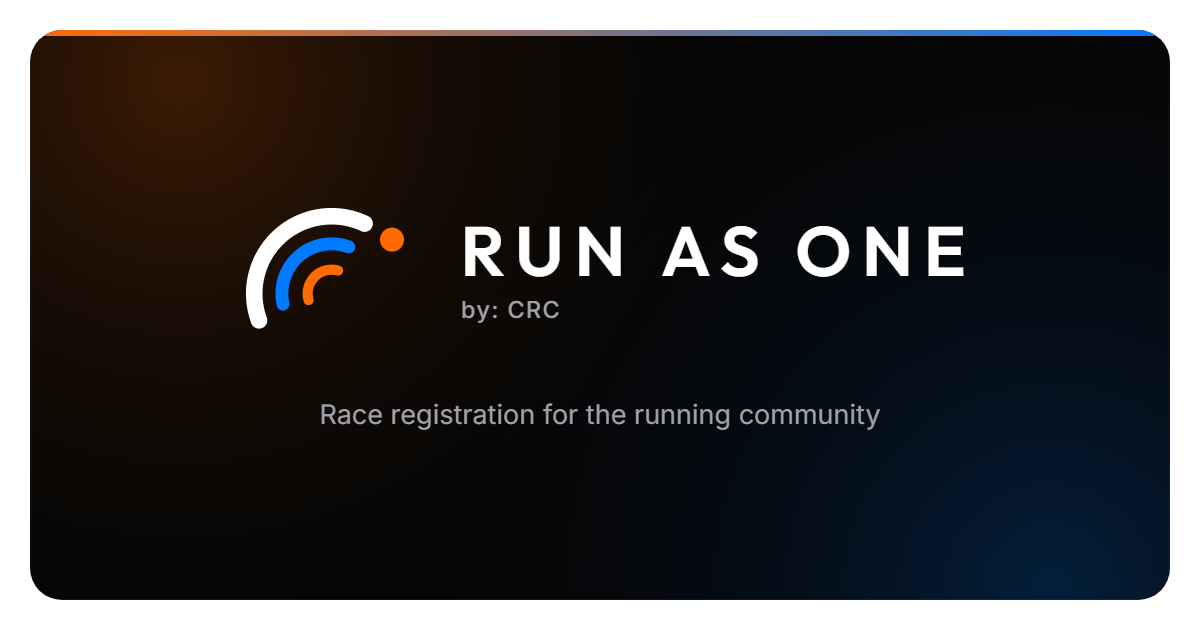
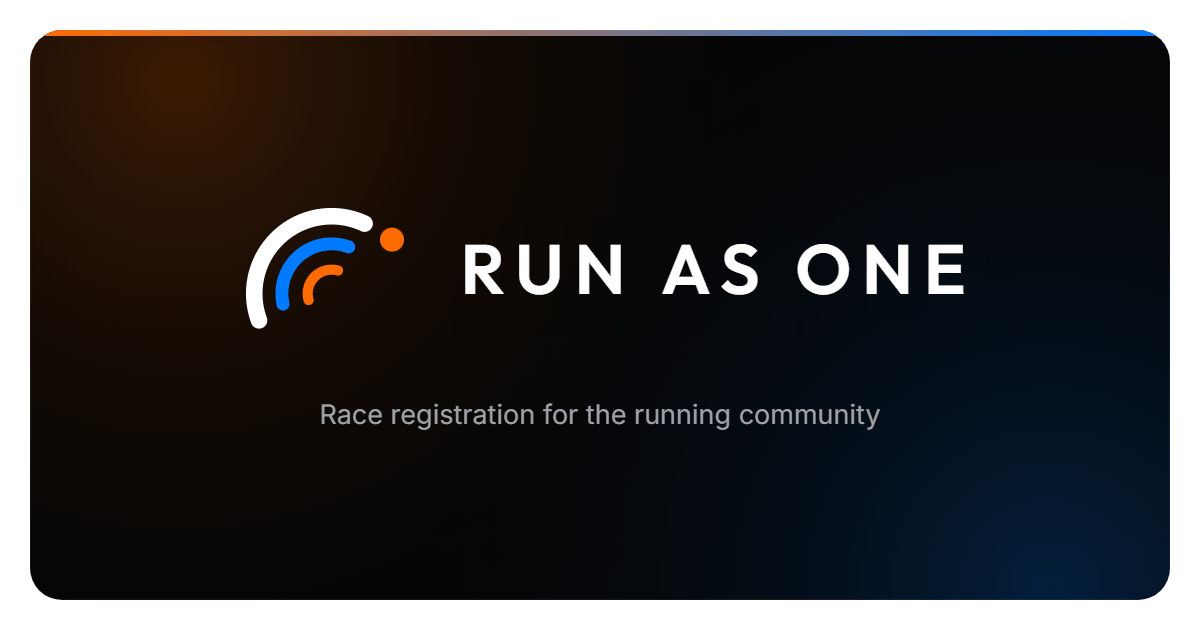
rebrand: Drop the "by: CRC" byline, rename to just Run As One
The parent-brand endorsement line is gone from the logo lockup, the site
name constant, and every surface that quoted it (emails, hero copy,
PROJECT_GUIDE). CSS and assets for the byline are removed along with it,
and the email logo asset gets a version bump so inboxes pick up the change.

Changed region(s): [[0.555, 0.3619, 0.8017, 0.4825], [0.37, 0.3619, 0.5242, 0.5127]]

diff --git a/src/app/globals.css b/src/app/globals.css
@@ -1222,7 +1222,7 @@ html, body { overflow-x: hidden; }
 
 /* ── Brand lockup — components/RunAsOneLogo ────────────────────
    One number sizes the whole thing. `--rao-logo-size` is the height of the
-   drawn mark and everything else — wordmark, tagline, every gap — is `em` off
+   drawn mark and everything else — the wordmark and the gap — is `em` off
    it, so a call site sets one value (responsively, if it wants) and the lockup
    keeps its proportions rather than each surface re-tuning a font size beside a
    pixel height, which is what left the old raster logo a different size in
@@ -1249,16 +1249,6 @@ html, body { overflow-x: hidden; }
   width: auto;
 }
 
-.rao-logo__words {
-  display: flex;
-  flex-direction: column;
-  gap: 0.09em;
-}
-
-.rao-logo--stacked .rao-logo__words {
-  align-items: center;
-}
-
 /* Wide tracking is what makes a short uppercase wordmark read as a mark rather
    than as a word. Tracking adds its space *after* the final letter too, so the
    negative margin pulls that phantom column back off the right edge and the
@@ -1274,29 +1264,6 @@ html, body { overflow-x: hidden; }
   text-transform: uppercase;
   white-space: nowrap;
   color: var(--logo-ink);
-}
-
-/* The endorsement line. Left-aligned by construction — `.rao-logo__words` is a
-   flex column, so it shares the wordmark's own left edge and the two lines have
-   one alignment axis between them instead of two. Right-aligning it would hang
-   it off an edge that the wordmark's letter-spacing keeps moving.
-
-   The size has a floor rather than being pure `em`. 0.17em keeps the byline at
-   about a third of the wordmark — the ratio that reads as an endorsement rather
-   than as a second line of the name — but that is 5.4px in the navbar, so the
-   `max()` holds it at a legible 9.5px in chrome too small to carry the ratio.
-   Small text does not scale down linearly and stay readable, and letting it go
-   proportionally larger there is what optical sizing does anyway. Mixed case,
-   not the wordmark's caps: the contrast is what marks it as the quieter line. */
-.rao-logo__byline {
-  font-family: var(--font-body, 'Inter'), 'Inter', ui-sans-serif, system-ui, sans-serif;
-  font-weight: 500;
-  font-size: max(9.5px, 0.17em);
-  line-height: 1;
-  letter-spacing: 0.06em;
-  margin-right: -0.06em;
-  white-space: nowrap;
-  color: var(--logo-muted);
 }
 
 /* The light half of the logo's palette, sitting here ahead of the theme switch

diff --git a/src/lib/site-contact.ts b/src/lib/site-contact.ts
@@ -1,5 +1,5 @@
 /**
- * Who Run As One by: CRC is, and how a runner reaches it.
+ * Who Run As One is, and how a runner reaches it.
  *
  * The footer, the 404 page and the two legal pages all quote the same address
  * and the same channel list, so they read it from here instead of each
@@ -14,11 +14,10 @@
  * Every surface that names the platform in prose — the footer's copyright, the
  * two legal pages, the Open Graph `siteName`, the sender name and footer on
  * every email — reads it from here, so the name cannot be half-changed. The
- * parent brand is part of it: "Run As One" alone is not the product's name on
- * any surface, the same rule the logo lockup follows by rendering "by: CRC" on
- * every variant that has a wordmark.
+ * logo lockup's wordmark is the one other copy, because it is separately styled
+ * DOM text; change the two together.
  */
-export const SITE_NAME = 'Run As One by: CRC';
+export const SITE_NAME = 'Run As One';
 
 /**
  * Where the site lives on the open internet.
@@ -36,7 +35,7 @@ export const SITE_NAME = 'Run As One by: CRC';
  * on the page still rendered, so the mistake was invisible in a browser, but
  * `metadataBase` made `og:image` absolute against that dead host: Facebook's
  * crawler could not fetch the card, fell back to the largest image on the page,
- * and showed the featured event's poster instead of the Run As One by: CRC card, over a
+ * and showed the featured event's poster instead of the Run As One card, over a
  * `run-as-one.vercel.app` byline nobody could open.
  */
 export const SITE_URL =

diff --git a/src/components/RunAsOneLogo.tsx b/src/components/RunAsOneLogo.tsx
@@ -3,7 +3,7 @@ import { SITE_NAME } from '@/lib/site-contact';
 import { MARK_ARCS, MARK_DOT, MARK_VIEWBOX, type MarkInk } from '@/lib/brand-mark';
 
 /**
- * The Run As One by: CRC brand lockup.
+ * The Run As One brand lockup.
  *
  * Two halves that are deliberately made of different material:
  *
@@ -28,7 +28,7 @@ import { MARK_ARCS, MARK_DOT, MARK_VIEWBOX, type MarkInk } from '@/lib/brand-mar
  * surface can be re-tinted by setting `--logo-ink` on its container.
  *
  * **Size is one number.** `--rao-logo-size` is the height of the mark; the
- * wordmark, the tagline and every gap are `em` off it, so the lockup keeps its
+ * wordmark and the gap are `em` off it, so the lockup keeps its
  * proportions at any size. Set it per call site, responsively if needed:
  * `className="[--rao-logo-size:34px] sm:[--rao-logo-size:40px]"`.
  */
@@ -105,12 +105,9 @@ export function RunAsOneLogo({
       aria-hidden={decorative || undefined}
     >
       {mark}
-      <span className="rao-logo__words">
-        {/* Written in mixed case and uppercased in CSS: a screen reader reading
-            the DOM text says the brand rather than spelling out four capitals. */}
-        <span className="rao-logo__word">Run As One</span>
-        <span className="rao-logo__byline">by: CRC</span>
-      </span>
+      {/* Written in mixed case and uppercased in CSS: a screen reader reading
+          the DOM text says the brand rather than spelling out three capitals. */}
+      <span className="rao-logo__word">Run As One</span>
     </span>
   );
 }

diff --git a/src/lib/email.ts b/src/lib/email.ts
@@ -59,11 +59,10 @@ import {
 /**
  * The sender line every email goes out under.
  *
- * The display name is **quoted**, which it has to be now that the brand is
- * "Run As One by: CRC": a colon is one of RFC 5322's specials, and a bare
- * phrase containing one is not a legal display-name — the parser stops at the
- * colon and the rest of the name lands wherever the receiving client decides.
- * Quoting it makes the whole name one atom and the address parses as intended.
+ * The display name is **quoted**. The name comes from `SITE_NAME`, and it once
+ * held a colon — one of RFC 5322's specials, at which a parser stops and drops
+ * the rest of a bare display-name wherever the receiving client decides.
+ * Quoting keeps the whole name one atom whatever the constant holds.
  */
 const FROM_ADDRESS = `"${SITE_NAME}" <${CONTACT_EMAIL}>`;
 const BRAND_ORANGE = '#FF6B00';
@@ -94,7 +93,7 @@ const BRAND_BLUE = '#007AFF';
  * email sent from localhost or a preview deployment still shows whatever
  * production is serving: a new logo reaches inboxes only once it is on `main`.
  */
-const LOGO_VERSION = '2';
+const LOGO_VERSION = '3';
 const LOGO_URL = `${SITE_URL}/email/run-as-one-logo.png?v=${LOGO_VERSION}`;
 
 let client: Resend | null = null;

diff --git a/src/components/HeroSection.tsx b/src/components/HeroSection.tsx
@@ -10,7 +10,7 @@ import HeroArcBackground from '@/components/HeroArcBackground';
  * The front door.
  *
  * This used to be a search box and nothing else — no headline, no sentence
- * saying what Run As One by: CRC is — so a first-time visitor landed on a control with
+ * saying what Run As One is — so a first-time visitor landed on a control with
  * no idea what they were searching. The copy states the product; the events
  * below are still the thing the page is for, so this stays short enough that
  * the first race card is reachable without much scrolling.

diff --git a/src/lib/brand-mark.ts b/src/lib/brand-mark.ts
@@ -1,5 +1,5 @@
 /**
- * The geometry of the Run As One by: CRC mark, in one place.
+ * The geometry of the Run As One mark, in one place.
  *
  * Three surfaces draw these same four shapes and none of them can reach the
  * others' copy: `components/RunAsOneLogo` renders them as JSX with CSS

diff --git a/PROJECT_GUIDE.md b/PROJECT_GUIDE.md
@@ -1,4 +1,4 @@
-# Run As One by: CRC — Project Guide
+# Run As One — Project Guide
 
 **Read this file before touching the codebase.** It is the single briefing on what
 this app is, how it is built, and the rules it holds itself to, so a fresh session
@@ -14,7 +14,7 @@ updated](#keeping-this-file-updated) at the bottom.
 
 ## 1. What the product is
 
-Run As One by: CRC is a **running-event registration and results platform for the
+Run As One is a **running-event registration and results platform for the
 Philippines**. Three groups use it:
 
 | Who | What they do | Where |
@@ -1000,7 +1000,8 @@ These are the user's own standing preferences. Follow them without being asked.
   `.rao-logo` in `globals.css`, geometry in `lib/brand-mark.ts` — the one copy
   of the path data, which the component, the themed favicon and the icon
   raster scripts all draw from; `app/icon.svg` is the sole exception, a static
-  file that can import nothing, so change it in the same edit). It replaced `public/run-as-one-logo.png`
+  file that can import nothing, so change it in the same edit). It replaced `public/run-as-one-logo.png` (the old
+  artwork, since deleted)
   everywhere a person sees the app: the public navbar and footer, both
   dashboards' sidebars, and the two auth cards. Two halves made of deliberately
   different material — **the mark is SVG geometry** (three concentric arcs, ink
@@ -1015,39 +1016,31 @@ These are the user's own standing preferences. Follow them without being asked.
   Three variants — `full`, `stacked`, `mark`. **Flat colour, never the
   orange→blue gradient**: this logo has to survive a bib, a shirt and a
   tarpaulin, and a ramp is the first thing a printer loses.
-- **The brand is "Run As One by: CRC", and `SITE_NAME` is the only place it is
-  spelled.** It used to be written "RunAsOne" and the parent brand only rode
-  along on the logo; both halves are now one name, and every surface that names
-  the platform in prose — the root `<title>` and every page title, the Open
-  Graph `siteName`, the two legal pages, the footer copyright, the sender name
-  and footer on every email — builds its string from `SITE_NAME` in
-  `lib/site-contact.ts` rather than typing it. **Never retype the name**: the
-  first version of this rename left half the page titles behind because they
-  were string literals, which is why they are template literals off the
-  constant now. Two consequences worth knowing: the email sender's display name
-  is **quoted** (`"${SITE_NAME}" <…>`), because a colon is one of RFC 5322's
-  specials and a bare phrase containing one is not a legal display-name; and the
-  lockup's own two lines are the *only* copies of the name that are not read
-  from the constant, because they are separately styled DOM text — the wordmark
-  says "Run As One" and the byline "by: CRC", and the two must be edited
-  together with it. The `RunAsOneLogo` component, its file and the `.rao-logo`
-  class keep their old identifiers; they are code names, not text a person sees.
-- **"by: CRC" is part of the lockup, not an option.** Run As One by: CRC is Cresendo
-  Running Community's platform, and a parent brand that appears on some
-  surfaces and not others stops reading as a parent brand — so the endorsement
-  line renders on every variant that has a wordmark, and there is no prop to
-  turn it off. It sits **flush with the left edge of the wordmark** in the
-  horizontal lockup and centred in the stacked one, sharing the wordmark's own
-  alignment axis so the two lines have one edge between them rather than two;
-  right-aligning it would hang it off an edge that letter-spacing keeps moving.
-  Mixed case against the wordmark's caps is what marks it as the quieter line.
-  Its size is `max(9.5px, 0.24em)` rather than pure `em`: small text does not
-  scale down linearly and stay readable, so the floor holds it legible at the
-  32px the navbar uses while it still grows on the surfaces that can carry it.
-  It replaced a "Race registration" tagline that never shipped — one sub-line
-  is all the slot holds, and the parent brand earns it.
+- **The brand is "Run As One", and `SITE_NAME` is the only place it is
+  spelled.** It was once written "RunAsOne", and for a while it carried a
+  parent-brand byline; the owner had that byline removed from every surface —
+  the name, the logo lockup, the favicon's label, the Open Graph card and the
+  email logo. Every surface that names the platform in prose — the root
+  `<title>` and every page title, the Open Graph `siteName`, the two legal
+  pages, the footer copyright, the sender name and footer on every email —
+  builds its string from `SITE_NAME` in `lib/site-contact.ts` rather than
+  typing it. **Never retype the name**: an earlier rename left half the page
+  titles behind because they were string literals, which is why they are
+  template literals off the constant now. The email sender's display name stays
+  **quoted** (`"${SITE_NAME}" <…>`) so a special character in some future name
+  — the old byline's colon was one — cannot break RFC 5322 parsing. The
+  lockup's wordmark is the *only* copy of the name not read from the constant,
+  because it is separately styled DOM text, so edit the two together. The
+  `RunAsOneLogo` component, its file and the `.rao-logo` class keep their old
+  identifiers; they are code names, not text a person sees.
+- **The lockup is the mark and the wordmark, nothing else.** There is no byline
+  or tagline slot: the endorsement line that used to sit under the wordmark was
+  removed along with its `.rao-logo__byline` and `.rao-logo__words` styles, so
+  the wordmark alone is centred on the mark in the horizontal lockup and centred
+  under it in the stacked one. Do not bring a sub-line back unless the owner
+  asks for one.
 - **Sizing the logo is one number.** `--rao-logo-size` is the height of the
-  mark and everything else — wordmark, tagline, every gap — is `em` off it, so
+  mark and everything else — the wordmark and the gap — is `em` off it, so
   a call site sets one value and the proportions hold:
   `className="[--rao-logo-size:32px] sm:[--rao-logo-size:38px]"`. Do not size
   the wordmark or the gaps per surface; that is what left the old raster logo a
@@ -1124,30 +1117,32 @@ These are the user's own standing preferences. Follow them without being asked.
   its own inset dark panel rather than borrowing the platform's background.
   **Regenerating the two with a wordmark means rendering them in a browser**,
   where the real Outfit face is loaded — rasterising SVG `<text>` outside one
-  picks up whatever font the rasteriser happens to find. `public/run-as-one-logo.png`
-  is the previous CRC artwork; nothing references it any more.
+  picks up whatever font the rasteriser happens to find.
 
-  **Renaming the brand means re-rendering both wordmark rasters**, and neither
+  **Changing the lockup means patching both wordmark rasters**, and neither
   can be regenerated from source, because there is no source — they were
-  rasterised from a browser once and committed. The way they were re-cut for
-  the "by: CRC" rename is the way to do it again: measure the existing byline's
-  glyph runs, baseline and colour out of the PNG itself, reproduce them in a
-  canvas on a page where the real Inter face is loaded (Inter 500, `0.06em`
-  tracking, `#A1A1AA` — the byline is Inter, not the wordmark's Outfit), and
-  composite only that line back. The OG card's byline sits on the panel's
-  gradient, so its box is rebuilt by interpolating each column between the clean
-  rows above and below rather than filled flat; the email lockup's byline sits
-  on transparent ground and its box is simply cleared. Patching the one line
-  leaves every other pixel of both assets byte-identical, which is worth more
-  than a clean re-render that would drift.
+  rasterised from a browser once and committed. They are patched in place with
+  `sharp` on the raw pixels. When the byline was removed, its rows were cleared
+  and the wordmark was moved down by 0.13 of the mark's em — half the byline's
+  line box plus the gap it sat behind, which is exactly where the live component
+  now centres the wordmark (16px in the 3x email PNG, 18px on the OG card). The
+  OG card's text sits on the panel's gradient, so its box is rebuilt by
+  interpolating each column between clean rows above and below, the white
+  wordmark's coverage is recovered against that rebuilt ground, and it is
+  composited back at its new height; the email lockup sits on transparent
+  ground, so its rows are simply moved. A line that has to be *added* is drawn
+  in a canvas on a page where the real face is loaded, measured against the
+  PNG, and composited the same way. Patching leaves every other pixel of both
+  assets byte-identical, which is worth more than a clean re-render that would
+  drift.
 
   **A re-cut email logo also needs its URL bumped and a deploy to `main`.**
   `LOGO_URL` in `lib/email.ts` carries a `?v=` (`LOGO_VERSION`) that must change
   with the PNG: Gmail's image proxy caches each image URL on Google's side and
   keeps serving that copy, so a new file behind an old URL still shows the old
   picture. And the URL is built on `SITE_URL`, the production domain, so an email
-  sent from localhost or a preview shows whatever production serves — the "by:
-  CRC" logo sat fixed on `dev` while every test email kept showing "by CRC",
+  sent from localhost or a preview shows whatever production serves — a re-cut
+  logo once sat fixed on `dev` while every test email kept showing the old one,
   because `main` had not been deployed.
 - Commit style: `feat:` / `fix:` / `refactor:` plus a sentence saying what changed
   for the user.

diff --git a/FEATURES_CHECKLIST.md b/FEATURES_CHECKLIST.md
@@ -1,4 +1,4 @@
-# Run As One by: CRC - Major Features Checklist 🏃♂
+# Run As One - Major Features Checklist 🏃♂
 
 Ang checklist na ito ay nakabase sa ating naaprubahang Implementation Plan. Iu-update natin ito sa bawat major feature na matatapos natin.
 
